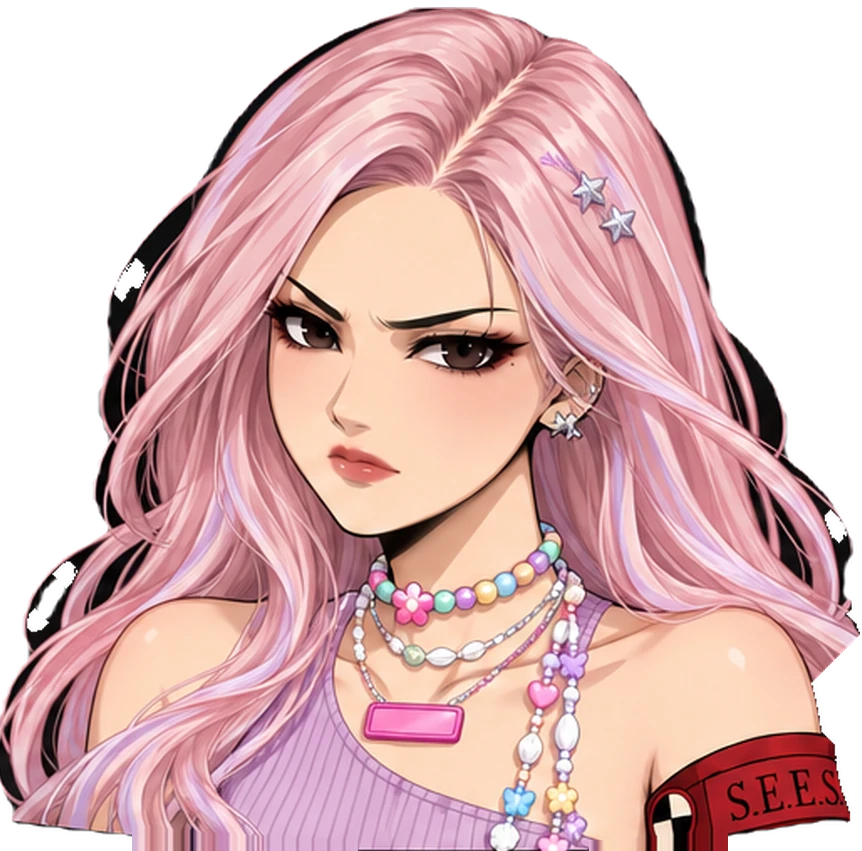
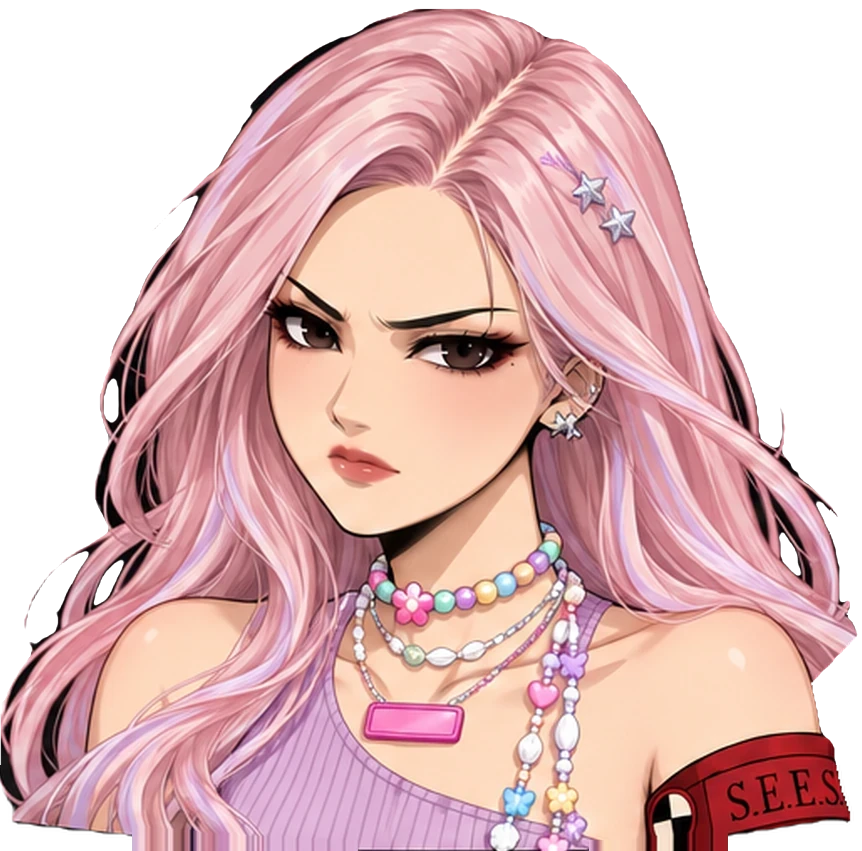
FEMC: recut Strawberry, Prowl and Oops scene portraits (dark halo behind lighter hair)
Audited all 32 outfit portrait sets on a bright background; these three had leftover sheet background.

diff --git a/assets/femc/game/cosmetics.js b/assets/femc/game/cosmetics.js
@@ -327,8 +327,8 @@ window.FemcCosmetics = (() => {
     const x = onIn(`skin:${id}`); if (!x) return null;
     const have = ((readyArt().skins || {})[x.id]?.portraits || {})[id] || [];
     const f = [face, face && face.replace(/-\d+$/, ''), 'neutral', have[0]].find(k => k && have.includes(k));
-    // ?v= bumps when a cut is redone (2: Summer Session and Snake Charmer recut, 2026-10-30).
-    return f ? `${G.base}${skinDir(x.id)}portraits/${id}/${f}.webp?v=2` : null;
+    // ?v= bumps when a cut is redone (3: Summer Session, Snake Charmer, Strawberry, Prowl and Oops recut, 2026-10-30).
+    return f ? `${G.base}${skinDir(x.id)}portraits/${id}/${f}.webp?v=3` : null;
   }
   // The Equipment tab's picture for a fighter's weapon slot (a path from the site root, like a gear's `art`).
   function weaponArt(who) { const x = onIn(`weapon:${who}`); return x ? `${skinDir(x.id)}weapon.webp` : null; }

diff --git a/femc-game.html b/femc-game.html
@@ -148,7 +148,7 @@
   <script src="assets/femc/game/menu.js?v=27"></script>
   <script src="assets/femc/game/art/ready.js?v=15"></script>
   <script src="assets/femc/game/gacha.js?v=13"></script>
-  <script src="assets/femc/game/cosmetics.js?v=18"></script>
+  <script src="assets/femc/game/cosmetics.js?v=19"></script>
   <script src="assets/femc/game/echoes-ui.js?v=1"></script>
   <script src="assets/femc/game/requests.js?v=2"></script>
   <script src="assets/femc/game/stamps.js?v=4"></script>
